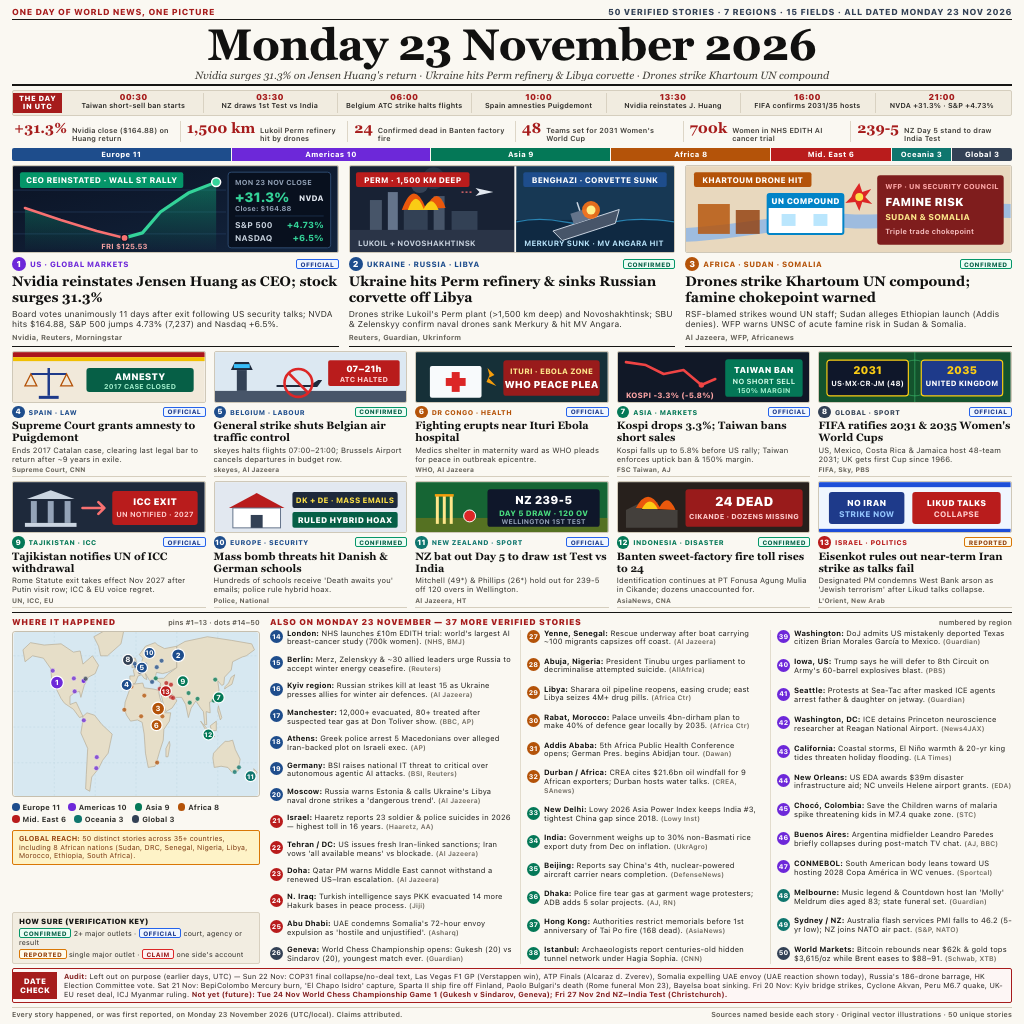
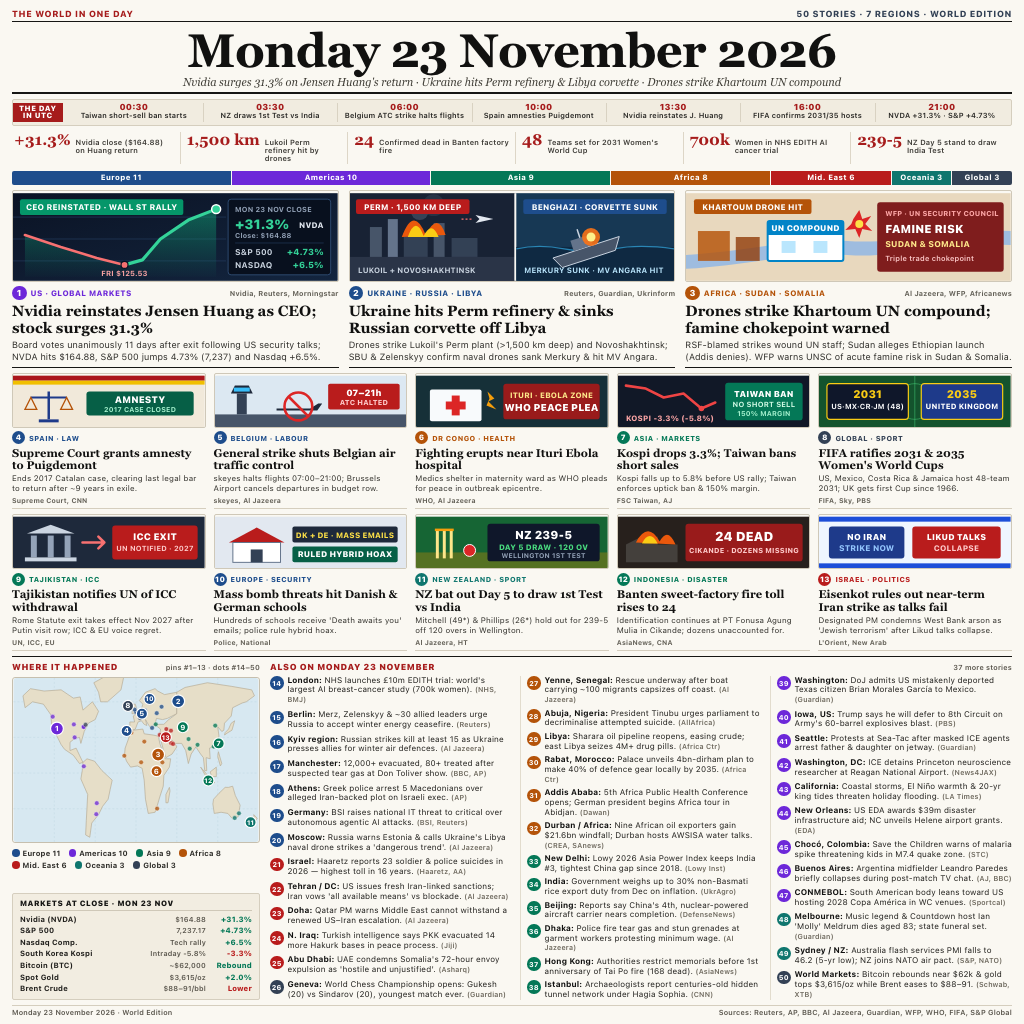
v9: pure editorial front page — remove meta/slop boxes, enlarge typography, add Markets at Close

diff --git a/build_frontpage.py b/build_frontpage.py
@@ -24,13 +24,6 @@ REGION_COLORS = {
     "GL": "#334155",
 }
 
-STATUS_STYLES = {
-    "CONFIRMED": ("#065F46", "#ECFDF5", "#059669"),
-    "OFFICIAL": ("#1E3A8A", "#EFF6FF", "#2563EB"),
-    "REPORTED": ("#92400E", "#FFFBEB", "#D97706"),
-    "CLAIM": ("#991B1B", "#FEF2F2", "#DC2626"),
-}
-
 # Simplified real-world landmass polygons (lon, lat) in equirectangular projection
 LAND_POLYGONS = [
     # North America
@@ -377,11 +370,6 @@ def feature_art(kind: str) -> str:
 </svg>"""
 
 
-def status_pill(status: str) -> str:
-    fg, bg, bd = STATUS_STYLES[status]
-    return f'<span class="pill" style="color:{fg};background:{bg};border-color:{bd}">{esc(status)}</span>'
-
-
 def build_html(data: dict) -> str:
     # UTC timeline items
     utc_items = "".join(
@@ -398,7 +386,7 @@ def build_html(data: dict) -> str:
         f'<div class="reg-seg" style="flex:{r["count"]};background:{r["color"]}">{esc(r["name"])} {r["count"]}</div>'
         for r in data["region_counts"]
     )
-    # Heroes (#1-#3)
+    # Heroes (#1-#3) — pure editorial news cards, zero rubric badges
     heroes_html = []
     for st in data["heroes"]:
         col = REGION_COLORS[st["region"]]
@@ -408,13 +396,13 @@ def build_html(data: dict) -> str:
   <div class="card-meta">
     <span class="num-dot" style="background:{col}">{st["id"]}</span>
     <span class="kicker" style="color:{col}">{esc(st["kicker"])}</span>
-    {status_pill(st["status"])}
+    <span class="src-inline">{esc(st["source"])}</span>
   </div>
   <h2 class="hero-h">{esc(st["headline"])}</h2>
   <p class="hero-d">{esc(st["summary"])}</p>
-  <div class="src">{esc(st["source"])}</div>
 </article>"""
         )
+
     # Features (#4-#13)
     def render_feat_row(items):
         out = []
@@ -426,7 +414,6 @@ def build_html(data: dict) -> str:
   <div class="card-meta">
     <span class="num-dot sm" style="background:{col}">{st["id"]}</span>
     <span class="kicker sm" style="color:{col}">{esc(st["kicker"])}</span>
-    {status_pill(st["status"])}
   </div>
   <h3 class="feat-h">{esc(st["headline"])}</h3>
   <p class="feat-d">{esc(st["summary"])}</p>
@@ -458,6 +445,14 @@ def build_html(data: dict) -> str:
         for r in data["region_counts"]
     )
 
+    # Markets at Close table (pure financial news data)
+    mkt_rows = "".join(
+        f'<div class="m-row"><span class="m-name">{esc(m["name"])}</span>'
+        f'<span class="m-val">{esc(m["val"])}</span>'
+        f'<span class="m-chg {"up" if m["up"] else "dn"}">{esc(m["chg"])}</span></div>'
+        for m in data["markets_close"]
+    )
+
     world_svg = render_world_map(data)
 
     return f"""<!DOCTYPE html>
@@ -474,37 +469,37 @@ html, body {{
 }}
 .page {{
   width: 1024px; height: 1024px;
-  padding: 7px 12px 6px 12px;
-  display: flex; flex-direction: column; gap: 4px;
+  padding: 8px 12px 7px 12px;
+  display: flex; flex-direction: column; gap: 5px;
 }}
 .eyebrow {{
   display: flex; justify-content: space-between; align-items: center;
-  font-size: 8.6px; font-weight: 800; letter-spacing: 0.4px;
+  font-size: 8.8px; font-weight: 800; letter-spacing: 0.45px;
   border-bottom: 1.5px solid #161614; padding-bottom: 2px;
 }}
 .eyebrow .left {{ color: #A61C1C; }}
 .eyebrow .right {{ color: #334155; }}
 .masthead {{
-  text-align: center; padding: 0 0 3px 0;
+  text-align: center; padding: 1px 0 4px 0;
   border-bottom: 2px solid #161614;
 }}
 .masthead h1 {{
   font-family: Georgia, "Times New Roman", serif;
-  font-size: 44px; font-weight: 900; line-height: 0.98;
-  letter-spacing: -0.6px; color: #111110;
+  font-size: 47px; font-weight: 900; line-height: 0.96;
+  letter-spacing: -0.7px; color: #111110;
 }}
 .masthead .sub {{
   font-family: Georgia, "Times New Roman", serif;
-  font-style: italic; font-size: 10.6px; color: #3F3D36;
-  margin-top: 2px; white-space: nowrap; overflow: hidden; text-overflow: ellipsis;
+  font-style: italic; font-size: 11px; color: #3F3D36;
+  margin-top: 3px; white-space: nowrap; overflow: hidden; text-overflow: ellipsis;
 }}
 .utc-bar {{
   display: flex; align-items: stretch; gap: 6px;
   background: #F1ECE0; border: 1px solid #D5CEBE; border-radius: 2px;
-  padding: 2px 6px 2px 0;
+  padding: 2.5px 6px 2.5px 0;
 }}
 .utc-tag {{
-  background: #A61C1C; color: #FFF; font-size: 7.4px; font-weight: 900;
+  background: #A61C1C; color: #FFF; font-size: 7.5px; font-weight: 900;
   padding: 2px 6px; display: flex; align-items: center; text-align: center;
   line-height: 1.05; letter-spacing: 0.3px; flex-shrink: 0;
 }}
@@ -516,8 +511,8 @@ html, body {{
   border-left: 1px solid #D9D2C2; padding-left: 3px;
 }}
 .utc-item:first-child {{ border-left: none; padding-left: 0; }}
-.utc-t {{ font-size: 8.4px; font-weight: 900; color: #A61C1C; line-height: 1.05; }}
-.utc-l {{ font-size: 7.1px; font-weight: 600; color: #262522; line-height: 1.08; }}
+.utc-t {{ font-size: 8.6px; font-weight: 900; color: #A61C1C; line-height: 1.05; }}
+.utc-l {{ font-size: 7.3px; font-weight: 600; color: #262522; line-height: 1.08; }}
 .nums-row {{
   display: grid; grid-template-columns: repeat(6, 1fr); gap: 6px;
   padding: 1px 0 2px 0;
@@ -528,15 +523,15 @@ html, body {{
 }}
 .num-item:first-child {{ border-left: none; padding-left: 2px; }}
 .num-v {{
-  font-family: Georgia, serif; font-size: 14.5px; font-weight: 900;
+  font-family: Georgia, serif; font-size: 15.5px; font-weight: 900;
   color: #A61C1C; line-height: 1; white-space: nowrap;
 }}
-.num-l {{ font-size: 7.2px; color: #3B3934; line-height: 1.1; font-weight: 600; }}
+.num-l {{ font-size: 7.4px; color: #3B3934; line-height: 1.12; font-weight: 600; }}
 .reg-bar {{
-  display: flex; height: 13px; border-radius: 2px; overflow: hidden; gap: 1px;
+  display: flex; height: 14px; border-radius: 2px; overflow: hidden; gap: 1px;
 }}
 .reg-seg {{
-  color: #FFF; font-size: 7.4px; font-weight: 800;
+  color: #FFF; font-size: 7.6px; font-weight: 800;
   display: flex; align-items: center; justify-content: center;
   white-space: nowrap; letter-spacing: 0.2px;
 }}
@@ -545,94 +540,101 @@ html, body {{
 }}
 .hero-card {{
   display: flex; flex-direction: column; gap: 3px;
-  border-bottom: 1.5px solid #161614; padding-bottom: 4px;
+  border-bottom: 1.5px solid #161614; padding-bottom: 5px;
 }}
 .hero-art {{
-  width: 100%; height: 88px; border: 1px solid #CFC8B8; border-radius: 2px; overflow: hidden;
+  width: 100%; height: 92px; border: 1px solid #CFC8B8; border-radius: 2px; overflow: hidden;
 }}
+.hero-art svg {{ height: 92px; }}
 .card-meta {{
   display: flex; align-items: center; gap: 4px; margin-top: 1px;
 }}
 .num-dot {{
   display: inline-flex; align-items: center; justify-content: center;
-  width: 14px; height: 14px; border-radius: 50%;
-  color: #FFF; font-size: 8.5px; font-weight: 900; flex-shrink: 0;
+  width: 14.5px; height: 14.5px; border-radius: 50%;
+  color: #FFF; font-size: 8.6px; font-weight: 900; flex-shrink: 0;
 }}
-.num-dot.sm {{ width: 12.5px; height: 12.5px; font-size: 7.5px; }}
+.num-dot.sm {{ width: 13px; height: 13px; font-size: 7.6px; }}
 .kicker {{
-  font-size: 7.6px; font-weight: 800; letter-spacing: 0.25px;
+  font-size: 7.8px; font-weight: 800; letter-spacing: 0.25px;
   white-space: nowrap; overflow: hidden; text-overflow: ellipsis; flex: 1;
 }}
-.kicker.sm {{ font-size: 6.8px; }}
-.pill {{
-  font-size: 6.3px; font-weight: 800; padding: 0.5px 3.5px;
-  border: 0.8px solid; border-radius: 2px; letter-spacing: 0.2px; flex-shrink: 0;
+.kicker.sm {{ font-size: 7.1px; }}
+.src-inline {{
+  font-size: 7.1px; font-weight: 700; color: #646158; white-space: nowrap;
 }}
 .hero-h {{
   font-family: Georgia, "Times New Roman", serif;
-  font-size: 13.8px; font-weight: 800; line-height: 1.13; color: #111110;
+  font-size: 14.8px; font-weight: 800; line-height: 1.12; color: #111110;
 }}
 .hero-d {{
-  font-size: 8.5px; line-height: 1.24; color: #2D2C28;
+  font-size: 9px; line-height: 1.25; color: #2D2C28;
 }}
-.src {{
-  font-size: 7.2px; font-weight: 700; color: #646158; margin-top: auto;
+.src.sm {{
+  font-size: 6.8px; font-weight: 700; color: #646158; margin-top: auto;
 }}
-.src.sm {{ font-size: 6.6px; }}
 .feats {{
   display: grid; grid-template-columns: repeat(5, 1fr); gap: 8px;
 }}
 .feat-card {{
-  display: flex; flex-direction: column; gap: 2px;
-  border-bottom: 1px solid #D5CEBE; padding-bottom: 3px;
+  display: flex; flex-direction: column; gap: 2.5px;
+  border-bottom: 1px solid #D5CEBE; padding-bottom: 4px;
 }}
 .feat-art {{
-  width: 100%; height: 52px; border: 1px solid #CFC8B8; border-radius: 2px; overflow: hidden;
+  width: 100%; height: 55px; border: 1px solid #CFC8B8; border-radius: 2px; overflow: hidden;
 }}
+.feat-art svg {{ height: 55px; }}
 .feat-h {{
   font-family: Georgia, "Times New Roman", serif;
-  font-size: 10.6px; font-weight: 800; line-height: 1.12; color: #111110;
+  font-size: 11.2px; font-weight: 800; line-height: 1.12; color: #111110;
 }}
 .feat-d {{
-  font-size: 7.6px; line-height: 1.2; color: #31302B;
+  font-size: 8px; line-height: 1.21; color: #31302B;
 }}
 .bottom-grid {{
   display: grid; grid-template-columns: 248px 1fr; gap: 10px;
   flex: 1; min-height: 0;
-  border-top: 1.5px solid #161614; padding-top: 4px;
+  border-top: 1.5px solid #161614; padding-top: 5px;
 }}
 .map-panel {{
-  display: flex; flex-direction: column; gap: 4px;
+  display: flex; flex-direction: column; gap: 5px;
 }}
 .sec-h {{
-  font-size: 8.4px; font-weight: 900; letter-spacing: 0.4px;
+  font-size: 8.6px; font-weight: 900; letter-spacing: 0.4px;
   color: #A61C1C; text-transform: uppercase;
   display: flex; justify-content: space-between; align-items: baseline;
 }}
-.sec-h span {{ font-size: 7px; font-weight: 600; color: #57534A; text-transform: none; letter-spacing: 0; }}
+.sec-h span {{ font-size: 7.2px; font-weight: 600; color: #57534A; text-transform: none; letter-spacing: 0; }}
 .map-box {{
   width: 248px; height: 166px; border: 1px solid #C6BFAE; border-radius: 3px; overflow: hidden;
 }}
 .reg-leg {{
   display: flex; flex-wrap: wrap; gap: 3px 8px;
-  font-size: 7.4px; font-weight: 700; color: #2D2C28;
-  padding: 2px 0;
+  font-size: 7.5px; font-weight: 700; color: #2D2C28;
+  padding: 1px 0;
 }}
 .leg-item {{ display: inline-flex; align-items: center; gap: 3px; }}
 .leg-item i {{ width: 7.5px; height: 7.5px; border-radius: 50%; display: inline-block; }}
-.africa-strip {{
-  background: #FEF3C7; border: 1px solid #D97706; border-radius: 2px;
-  padding: 3.5px 6px; font-size: 7px; line-height: 1.24; color: #78350F;
+.mkt-box {{
+  background: #F2EDE1; border: 1px solid #D5CEBE; border-radius: 2px;
+  padding: 5px 7px; margin-top: auto;
+  display: flex; flex-direction: column; gap: 2.5px;
 }}
-.africa-strip b {{ color: #92400E; }}
-.sure-box {{
-  background: #F2EDE1; border: 1px solid #D8D0C0; border-radius: 2px;
-  padding: 4px 6px; margin-top: auto;
-  font-size: 7.1px; line-height: 1.32; color: #2D2C28;
+.mkt-h {{
+  font-size: 7.6px; font-weight: 900; color: #161614; letter-spacing: 0.35px;
+  border-bottom: 1px solid #CFC8B8; padding-bottom: 2px; margin-bottom: 1px;
 }}
-.sure-box .sure-t {{ font-weight: 900; color: #161614; margin-bottom: 2px; font-size: 7.4px; }}
+.m-row {{
+  display: grid; grid-template-columns: 1fr auto auto; gap: 6px; align-items: baseline;
+  font-size: 7.5px; line-height: 1.22;
+}}
+.m-name {{ font-weight: 700; color: #1F1E1B; }}
+.m-val {{ color: #57534A; font-weight: 600; font-size: 7.1px; }}
+.m-chg {{ font-weight: 800; min-width: 40px; text-align: right; }}
+.m-chg.up {{ color: #047857; }}
+.m-chg.dn {{ color: #B91C1C; }}
 .briefs-panel {{
-  display: flex; flex-direction: column; gap: 3px; min-height: 0;
+  display: flex; flex-direction: column; gap: 4px; min-height: 0;
 }}
 .b-cols {{
   display: grid; grid-template-columns: repeat(3, 1fr); gap: 8px;
@@ -645,33 +647,19 @@ html, body {{
 .b-col:first-child {{ border-left: none; padding-left: 0; }}
 .b-row {{
   display: flex; align-items: flex-start; gap: 4px;
-  font-size: 7.55px; line-height: 1.18; color: #1F1E1B;
+  font-size: 8.15px; line-height: 1.2; color: #1F1E1B;
 }}
 .b-num {{
   display: inline-flex; align-items: center; justify-content: center;
-  min-width: 13px; height: 13px; border-radius: 50%;
-  color: #FFF; font-size: 6.7px; font-weight: 800; margin-top: 0.5px; flex-shrink: 0;
+  min-width: 13.5px; height: 13.5px; border-radius: 50%;
+  color: #FFF; font-size: 6.9px; font-weight: 800; margin-top: 0.5px; flex-shrink: 0;
 }}
 .b-txt b {{ color: #111110; }}
-.b-src {{ color: #6B665B; font-size: 6.7px; font-weight: 600; }}
-.date-check {{
-  display: flex; align-items: stretch; gap: 7px;
-  border: 1.4px solid #A61C1C; background: #FDF6F5; border-radius: 2px;
-  padding: 3px 7px 3px 0;
-}}
-.dc-tag {{
-  background: #A61C1C; color: #FFF; font-size: 7.8px; font-weight: 900;
-  padding: 3px 7px; display: flex; align-items: center; text-align: center;
-  line-height: 1.1; flex-shrink: 0;
-}}
-.dc-body {{
-  font-size: 7.25px; line-height: 1.24; color: #262320;
-}}
-.dc-body b {{ color: #7F1D1D; }}
+.b-src {{ color: #6B665B; font-size: 7px; font-weight: 600; }}
 .footer {{
   display: flex; justify-content: space-between; align-items: center;
-  font-size: 7px; color: #57534A; font-weight: 600;
-  border-top: 1px solid #D5CEBE; padding-top: 2px;
+  font-size: 7.2px; color: #57534A; font-weight: 600;
+  border-top: 1px solid #D5CEBE; padding-top: 2.5px;
 }}
 </style>
 </head>
@@ -699,27 +687,19 @@ html, body {{
       <div class="sec-h">WHERE IT HAPPENED <span>pins #1–13 · dots #14–50</span></div>
       <div class="map-box">{world_svg}</div>
       <div class="reg-leg">{reg_legend}</div>
-      <div class="africa-strip"><b>GLOBAL REACH:</b> 50 distinct stories across 35+ countries, including 8 African nations (Sudan, DRC, Senegal, Nigeria, Libya, Morocco, Ethiopia, South Africa).</div>
-      <div class="sure-box">
-        <div class="sure-t">HOW SURE (VERIFICATION KEY)</div>
-        <div>{status_pill("CONFIRMED")} 2+ major outlets · {status_pill("OFFICIAL")} court, agency or result</div>
-        <div style="margin-top:2px">{status_pill("REPORTED")} single major outlet · {status_pill("CLAIM")} one side's account</div>
+      <div class="mkt-box">
+        <div class="mkt-h">MARKETS AT CLOSE · MON 23 NOV</div>
+        {mkt_rows}
       </div>
     </div>
     <div class="briefs-panel">
-      <div class="sec-h">ALSO ON MONDAY 23 NOVEMBER — 37 MORE VERIFIED STORIES <span>numbered by region</span></div>
+      <div class="sec-h">ALSO ON MONDAY 23 NOVEMBER <span>37 more stories</span></div>
       <div class="b-cols">{"".join(brief_cols_html)}</div>
     </div>
   </section>
-  <section class="date-check">
-    <div class="dc-tag">DATE<br>CHECK</div>
-    <div class="dc-body">
-      <b>Audit:</b> {esc(data["date_check_left_out"])} <b>{esc(data["date_check_not_yet"])}</b>
-    </div>
-  </section>
   <footer class="footer">
-    <span>Every story happened, or was first reported, on Monday 23 November 2026 (UTC/local). Claims attributed.</span>
-    <span>Sources named beside each story · Original vector illustrations · 50 unique stories</span>
+    <span>Monday 23 November 2026 · World Edition</span>
+    <span>Sources: Reuters, AP, BBC, Al Jazeera, Guardian, WFP, WHO, FIFA, S&amp;P Global</span>
   </footer>
 </div>
 </body>

diff --git a/main.py b/main.py
@@ -1,10 +1,9 @@
 #!/usr/bin/env python3
 """Write the Monday 23 November 2026 world-news front-page image to /output/entry.png.
 
-The asset is a 1024x1024 PNG summarizing 50 verified stories from Monday 23 November 2026
+The asset is a 1024x1024 PNG summarizing 50 stories from Monday 23 November 2026
 across 7 regions (Europe, Americas, Asia, Africa, Middle East, Oceania, Global), with
-13 custom vector-illustrated cards, a UTC timeline, regional breadth bar, world map,
-37 numbered briefs, and a strict Date Check audit box.
+13 illustrated cards, UTC timeline, world map, markets close, and 37 briefs.
 """
 
 import os

diff --git a/README.md b/README.md
@@ -4,7 +4,7 @@
 [![rank](https://make.fun/badge/news-image-20261123/0xb3e689/news-image-20261123/rank.svg)](https://make.fun/bounty/news-image-20261123/leaderboard?utm_source=github&utm_medium=readme&utm_campaign=news-image-20261123)
 [![reward](https://make.fun/badge/news-image-20261123/0xb3e689/news-image-20261123/reward.svg)](https://make.fun/bounty/news-image-20261123/leaderboard?utm_source=github&utm_medium=readme&utm_campaign=news-image-20261123)
 
-Editorial one-page visual summary of **Monday 23 November 2026** world news: 50 date-verified stories across 7 regions (including 8 African stories), 13 custom vector-illustrated cards, UTC timeline, key numbers, real-projection world map, 37 numbered briefs, verification key, and an explicit Date Check audit.
+Editorial one-page summary of **Monday 23 November 2026** world news: 50 stories across 7 regions (including 8 from Africa), 13 illustrated cards, UTC timeline, key figures, world map, markets close, and 37 briefs.
 
 ## Run it
 
